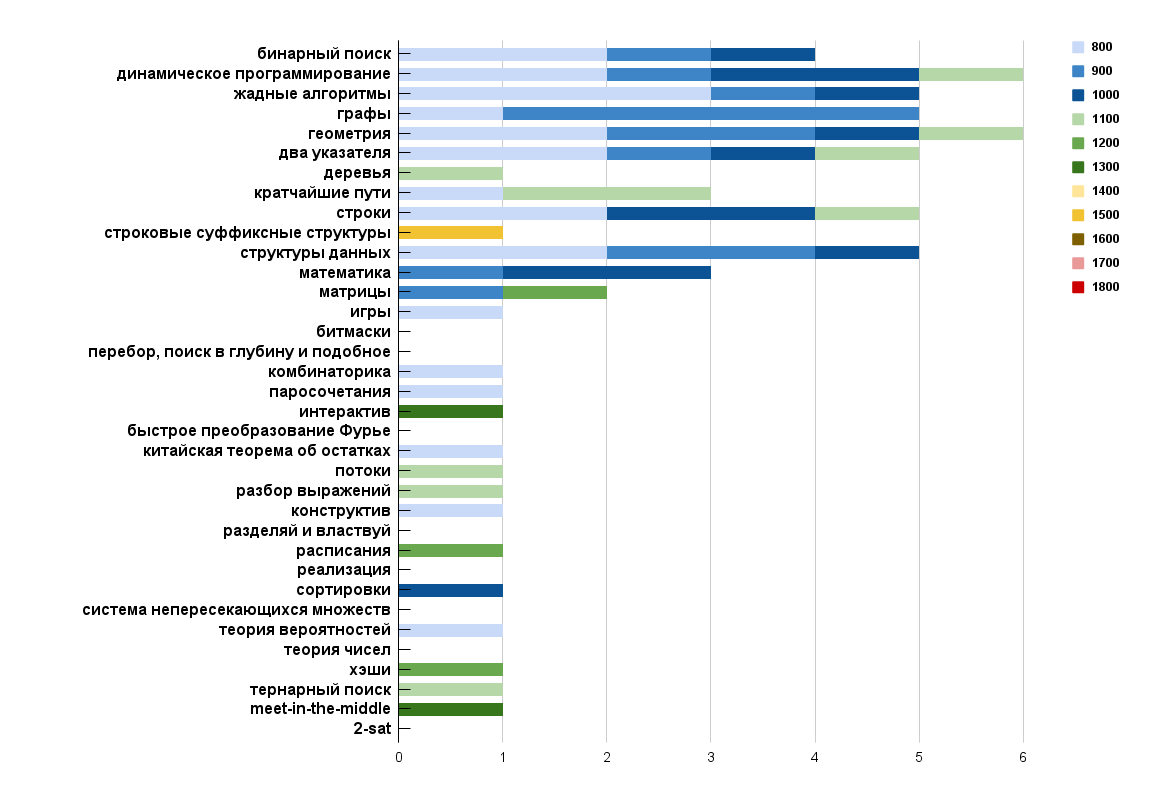
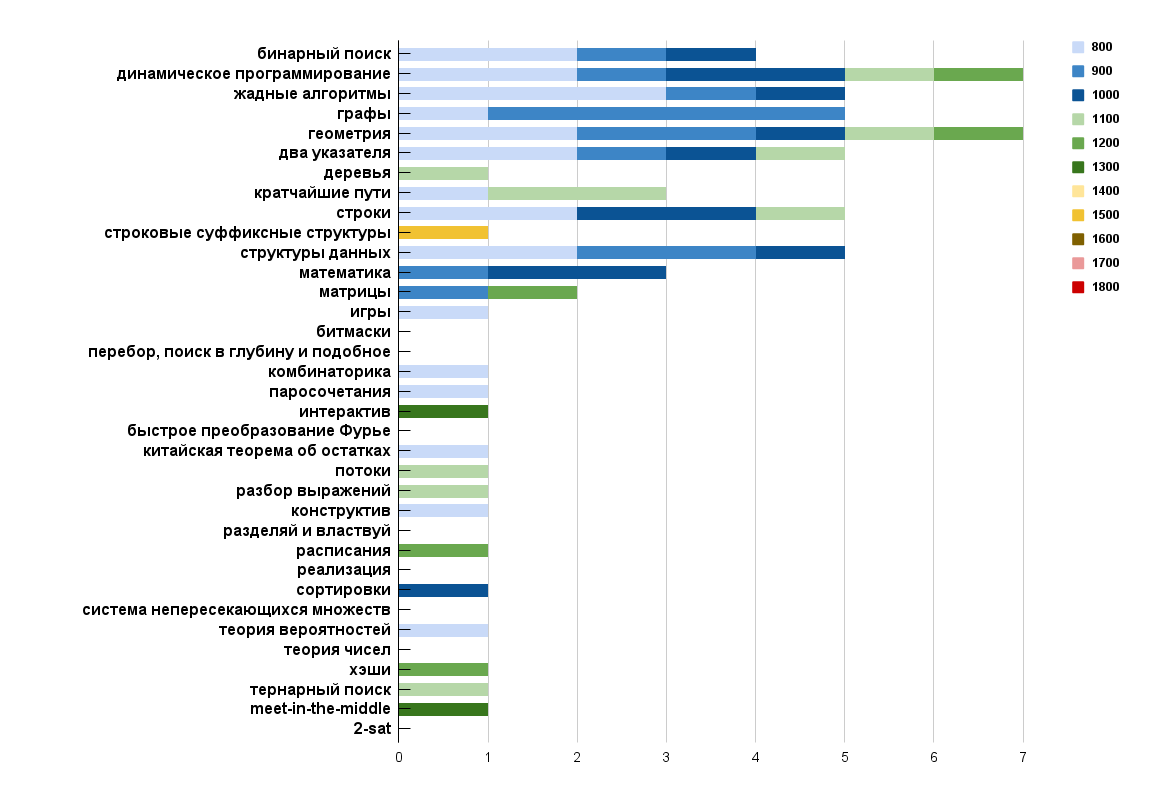
Try to solve 1200 in dp, almost solve 1200 in geometry.

diff --git a/kotlin/CodeforcesArchive/src/main/kotlin/geometry/compl_1200/2002C_Black_cicrcles.kt b/kotlin/CodeforcesArchive/src/main/kotlin/geometry/compl_1200/2002C_Black_cicrcles.kt
@@ -1,0 +1,19 @@
+package geometry.compl_1200
+
+fun main(){
+    val T = readln().toInt()
+    repeat(T){
+        val n = readln().toInt()
+        val points = mutableListOf<Pair<ULong, ULong>>()
+        repeat(n){
+            val (curX, curY) = readln().split(" ").map { it.toULong() }
+            points.add(curX to curY)
+        }
+        val (xStart, yStart, xFin, yFin) = readln().split(" ").map { it.toULong() }
+        val startFinDist2 = (xStart - xFin) * (xStart - xFin) + (yStart - yFin) * (yStart - yFin)
+        val minDist = points
+            .map { (it.first - xFin) * (it.first - xFin) + (it.second - yFin) * (it.second - yFin) }
+            .min()
+        println(if (startFinDist2 >= minDist) "NO" else "YES")
+    }
+}

diff --git a/kotlin/CodeforcesArchive/src/main/kotlin/dp/compl_1200/1987C_Beisil_garden.kt b/kotlin/CodeforcesArchive/src/main/kotlin/dp/compl_1200/1987C_Beisil_garden.kt
@@ -1,0 +1,16 @@
+package dp.compl_1200
+
+fun main(){
+    val T = readln().toInt()
+    repeat(T){
+        val n = readln().toInt()
+        val h = readln().split(" ").map { it.toLong() }
+        val t = LongArray(n)
+        t[n - 1] = h[n - 1]
+        for (i in n-1 downTo 1){
+            t[i - 1] = kotlin.math.max(h[i - 1], t[i] + 1)
+        }
+        println(t[0])
+
+    }
+}
